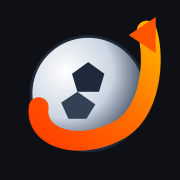
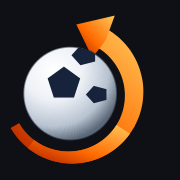
로고 마크를 다시 그림
기조는 그대로 두고 만듦새만 손봤다.

리본을 stroke 가 아니라 채운 띠로 바꿨다. 그래야 굵기가 변한다 — 화면
밖으로 나가는 꼬리는 얇고 어깨에서 두껍다. 균일한 두께는 그려진 스우시가
아니라 압출된 관처럼 보인다.

그리고 리본을 두 번 그린다. 한 번은 공 뒤에, 한 번은 왼쪽 아래를 가로지르는
구간만 공 앞에. 이 겹침 하나가 공을 "감고 있다" 와 "주위를 돌고 있다" 를
가른다.

공에는 정반사 하이라이트, 명암 경계 그늘, 테두리 선을 넣었다. 패널은
구에 클리핑하고 빛에서 멀어질수록 작아진다 — 평면 오각형을 흩뿌린 것과
구면을 따르는 것은 확대하면 바로 드러난다.

화살촉은 뒤로 젖힌 미늘과 노치를 줘서 깃발이 아니라 촉으로 읽히게 했다.

호는 손으로 적지 않고 64등분 샘플링해 생성했다. 어느 크기에서도 테이퍼가
매끄럽다. 패스 전체가 3.3KB.

탭·홈화면 아이콘도 같은 마크로 다시 만들었다. 16px 에서는 하이라이트와
바깥 패널이 잡음이 되므로 살아남는 요소만 남긴다.

diff --git a/components/Logo.tsx b/components/Logo.tsx
@@ -1,13 +1,17 @@
 /**
- * The mark, as supplied — SVG for the ball and ribbon, live text for the
- * wordmark.
+ * The mark.
  *
- * Two changes from the source it came from. Every measurement is in `em` off a
- * single container font-size, so the header can run it at a third of its
- * natural size without a transform and without the layout box lying about how
- * much room it takes. And the two display faces load through next/font instead
- * of an `@import` from fonts.googleapis.com, which was a render-blocking
- * request to a third party for eight glyphs.
+ * The ribbon is a filled band rather than a stroked arc so it can taper — thin
+ * where it leaves frame, thick at the shoulder — which is what makes a swoosh
+ * look drawn instead of extruded. It is painted twice: once behind the ball and
+ * once, for the stretch that crosses the lower left, in front. That single
+ * overlap is what makes it read as wrapping rather than orbiting.
+ *
+ * The ball gets a specular highlight, a terminator shade and a rim line. Panels
+ * are clipped to the sphere and shrink as they turn away from the light.
+ *
+ * Geometry generated rather than hand-typed; the arc points are sampled at 64
+ * steps so the taper stays smooth at any size.
  */
 
 export function LogoMark({
@@ -26,73 +30,96 @@ export function LogoMark({
       className={className}
     >
       <defs>
-        <linearGradient id="itkOrange" x1="0%" y1="100%" x2="100%" y2="0%">
-          <stop offset="0%" stopColor="#FF3E00" />
-          <stop offset="50%" stopColor="#FF6B00" />
-          <stop offset="100%" stopColor="#FFAE00" />
-        </linearGradient>
-
-        {/* Declared here rather than mid-document: a forward reference works in
-            browsers but not in every SVG rasteriser. */}
-        <radialGradient id="itkBall" cx="30%" cy="30%" r="70%">
-          <stop offset="0%" stopColor="#FFFFFF" />
-          <stop offset="60%" stopColor="#CBD5E1" />
-          <stop offset="100%" stopColor="#475569" />
+        <radialGradient id="itkSphere" cx="32%" cy="26%" r="76%">
+          <stop offset="0" stopColor="#FFFFFF" />
+          <stop offset="0.42" stopColor="#EDF1F6" />
+          <stop offset="0.78" stopColor="#B7C2D0" />
+          <stop offset="1" stopColor="#5B6878" />
         </radialGradient>
-
-        <filter id="itkShadow" x="-20%" y="-20%" width="140%" height="140%">
-          <feDropShadow
-            dx="2"
-            dy="4"
-            stdDeviation="3"
-            floodColor="#000"
-            floodOpacity="0.4"
-          />
-        </filter>
+        <radialGradient id="itkSpec" cx="50%" cy="50%" r="50%">
+          <stop offset="0" stopColor="#FFFFFF" stopOpacity="0.95" />
+          <stop offset="1" stopColor="#FFFFFF" stopOpacity="0" />
+        </radialGradient>
+        <radialGradient id="itkTerm" cx="34%" cy="28%" r="78%">
+          <stop offset="0.6" stopColor="#0B1220" stopOpacity="0" />
+          <stop offset="1" stopColor="#0B1220" stopOpacity="0.5" />
+        </radialGradient>
+        <linearGradient id="itkRib" x1="6%" y1="96%" x2="96%" y2="4%">
+          <stop offset="0" stopColor="#B32400" />
+          <stop offset="0.42" stopColor="#FF6B00" />
+          <stop offset="1" stopColor="#FFC155" />
+        </linearGradient>
+        <radialGradient id="itkHalo" cx="50%" cy="50%" r="50%">
+          <stop offset="0.48" stopColor="#FF6B00" stopOpacity="0.34" />
+          <stop offset="1" stopColor="#FF6B00" stopOpacity="0" />
+        </radialGradient>
+        <clipPath id="itkBallClip">
+          <circle cx="78" cy="104" r="52" />
+        </clipPath>
       </defs>
 
-      <circle cx="90" cy="110" r="65" fill="#1E2838" filter="url(#itkShadow)" />
-      <circle cx="90" cy="110" r="62" fill="url(#itkBall)" />
-
-      <polygon points="90,75 72,88 78,108 102,108 108,88" fill="#1E293B" />
-      <polygon points="90,75 72,88 55,78 62,60 80,60" fill="#334155" />
-      <polygon points="108,88 102,108 120,118 130,100 122,82" fill="#334155" />
-      <polygon points="78,108 60,120 68,138 88,138 98,122" fill="#334155" />
+      <circle cx="78" cy="104" r="78" fill="url(#itkHalo)" />
 
       <path
-        d="M 35 125 C 30 160, 80 175, 125 150 C 160 130, 165 70, 155 40"
-        fill="none"
-        stroke="url(#itkOrange)"
-        strokeWidth="22"
-        strokeLinecap="round"
-        filter="url(#itkShadow)"
+        d="M 11.7 142.2 14.1 146.0 16.6 149.6 19.3 153.1 22.2 156.5 25.3 159.6 28.6 162.6 32.0 165.4 35.6 168.0 39.4 170.4 43.2 172.6 47.2 174.6 51.3 176.3 55.5 177.8 59.8 179.1 64.2 180.1 68.6 180.9 73.0 181.4 77.5 181.7 82.0 181.7 86.5 181.4 91.0 180.9 95.4 180.2 99.8 179.2 104.2 177.9 108.4 176.4 112.6 174.6 116.7 172.6 120.7 170.4 124.6 167.9 128.3 165.2 131.8 162.3 135.2 159.2 138.4 155.9 141.4 152.4 144.2 148.8 146.8 144.9 149.2 141.0 151.3 136.8 153.2 132.6 154.9 128.2 156.3 123.8 157.4 119.3 158.3 114.7 158.9 110.0 159.2 105.3 159.3 100.6 159.1 95.9 158.6 91.2 157.8 86.6 156.7 82.0 155.4 77.4 153.8 73.0 152.0 68.6 149.9 64.4 147.5 60.2 145.0 56.2 142.1 52.4 139.1 48.8 135.8 45.3 132.4 42.0 128.7 39.0 124.9 36.1 120.9 33.5 116.7 31.2 L 105.9 51.5 108.9 53.2 111.8 55.0 114.6 57.0 117.3 59.2 119.8 61.5 122.2 64.0 124.5 66.6 126.6 69.3 128.6 72.1 130.4 75.1 132.1 78.1 133.6 81.3 134.9 84.5 136.0 87.8 136.9 91.1 137.7 94.5 138.2 98.0 138.6 101.5 138.8 105.0 138.7 108.5 138.5 112.0 138.0 115.5 137.4 119.0 136.6 122.5 135.5 125.9 134.3 129.2 132.9 132.5 131.2 135.7 129.4 138.8 127.4 141.8 125.3 144.7 123.0 147.4 120.5 150.0 117.8 152.5 115.0 154.9 112.1 157.0 109.1 159.0 105.9 160.9 102.6 162.5 99.2 164.0 95.8 165.2 92.2 166.3 88.6 167.1 85.0 167.7 81.3 168.1 77.6 168.3 73.9 168.3 70.1 168.1 66.4 167.6 62.7 166.9 59.1 166.0 55.5 164.9 52.0 163.6 48.6 162.1 45.2 160.3 42.0 158.4 38.9 156.3 35.9 154.0 33.0 151.5 30.3 148.8 27.8 146.0 25.4 143.1 23.3 140.0 21.3 136.8 Z"
+        fill="url(#itkRib)"
       />
       <path
-        d="M 135 45 L 165 25 L 165 65 Z"
-        fill="#FF5500"
-        filter="url(#itkShadow)"
+        d="M 84.8 27.2 L 127.5 17.3 L 117.5 44.6 L 102.6 64.0 Z"
+        fill="url(#itkRib)"
+      />
+
+      <circle cx="78" cy="104" r="52" fill="url(#itkSphere)" />
+      <g clipPath="url(#itkBallClip)" fill="#16233A">
+        <path d="M 71.0 74.0 L 89.1 87.1 L 82.2 108.4 L 59.8 108.4 L 52.9 87.1 Z" />
+        <path d="M 105.7 68.3 L 89.4 72.5 L 79.4 61.4 L 89.4 50.4 L 105.7 54.6 Z" />
+        <path d="M 104.2 114.7 L 95.4 105.1 L 104.2 95.4 L 118.3 99.1 L 118.3 111.0 Z" />
+        <path d="M 57.7 132.0 L 66.9 121.9 L 81.7 125.8 L 81.7 138.2 L 66.9 142.1 Z" />
+        <path d="M 29.4 94.0 L 45.6 98.2 L 45.6 111.9 L 29.4 116.1 L 19.4 105.0 Z" />
+        <path d="M 59.8 54.6 L 59.8 68.3 L 43.6 72.5 L 33.6 61.4 L 43.6 50.4 Z" />
+      </g>
+      <ellipse
+        cx="59"
+        cy="82"
+        rx="25"
+        ry="17"
+        fill="url(#itkSpec)"
+        transform="rotate(-24 59 82)"
+      />
+      <circle cx="78" cy="104" r="52" fill="url(#itkTerm)" />
+      <circle
+        cx="78"
+        cy="104"
+        r="52"
+        fill="none"
+        stroke="#0B1220"
+        strokeOpacity="0.5"
+        strokeWidth="2"
+      />
+
+      <path
+        d="M 30.8 164.4 32.3 165.6 33.9 166.8 35.5 167.9 37.2 169.0 38.8 170.1 40.5 171.1 42.2 172.1 44.0 173.0 45.7 173.9 47.5 174.7 49.3 175.5 51.2 176.2 53.0 176.9 54.9 177.6 56.8 178.2 58.7 178.8 60.6 179.3 62.5 179.7 64.4 180.1 66.4 180.5 68.4 180.8 70.3 181.1 72.3 181.3 74.3 181.5 76.3 181.6 78.3 181.7 80.2 181.7 82.2 181.7 84.2 181.6 86.2 181.4 88.2 181.3 90.2 181.0 92.2 180.7 94.2 180.4 96.1 180.0 98.1 179.6 100.0 179.1 102.0 178.6 103.9 178.0 105.8 177.4 107.7 176.7 109.6 175.9 111.4 175.2 113.3 174.3 115.1 173.5 116.9 172.5 118.7 171.6 120.4 170.6 122.1 169.5 123.8 168.4 125.5 167.3 127.2 166.1 128.8 164.8 130.4 163.6 131.9 162.2 133.4 160.9 134.9 159.5 136.4 158.1 137.8 156.6 139.1 155.1 140.5 153.5 141.8 152.0 143.0 150.3 144.3 148.7 L 129.5 138.7 128.6 140.1 127.7 141.4 126.8 142.7 125.8 144.0 124.8 145.2 123.8 146.4 122.8 147.6 121.7 148.8 120.5 150.0 119.4 151.1 118.2 152.2 117.0 153.3 115.8 154.3 114.5 155.3 113.2 156.3 111.9 157.2 110.5 158.1 109.2 159.0 107.8 159.8 106.4 160.6 104.9 161.4 103.5 162.1 102.0 162.8 100.5 163.4 99.0 164.0 97.5 164.6 95.9 165.2 94.4 165.6 92.8 166.1 91.2 166.5 89.6 166.9 88.0 167.2 86.4 167.5 84.8 167.8 83.1 168.0 81.5 168.1 79.9 168.2 78.2 168.3 76.6 168.4 74.9 168.3 73.3 168.3 71.6 168.2 70.0 168.1 68.3 167.9 66.7 167.7 65.0 167.4 63.4 167.1 61.8 166.7 60.2 166.3 58.6 165.9 57.0 165.4 55.4 164.9 53.8 164.3 52.3 163.7 50.7 163.1 49.2 162.4 47.7 161.7 46.2 160.9 44.8 160.1 43.3 159.2 41.9 158.3 40.5 157.4 39.1 156.5 37.8 155.5 Z"
+        fill="url(#itkRib)"
       />
     </svg>
   );
 }
 
-/**
- * `size` is the cap size of "itk"; everything else is proportional to it.
- */
+/** `size` is the cap size of "itk"; the rest is proportional to it. */
 export function Logo({ size = 82 }: { size?: number }) {
   return (
     <span
       className="flex select-none items-center"
-      style={{ fontSize: size, gap: "0.183em" }}
+      style={{ fontSize: size, gap: "0.16em" }}
     >
-      <LogoMark size={size * 1.463} className="shrink-0" />
+      <LogoMark size={size * 1.42} className="shrink-0" />
 
       <span
         className="flex flex-col italic"
         style={{
           fontFamily: "var(--font-wordmark)",
           fontWeight: 900,
-          lineHeight: 0.85,
+          lineHeight: 0.84,
         }}
       >
         <span
@@ -103,20 +130,20 @@ export function Logo({ size = 82 }: { size?: number }) {
               "linear-gradient(180deg, #FFFFFF 0%, #E2E8F0 60%, #94A3B8 100%)",
             WebkitBackgroundClip: "text",
             WebkitTextFillColor: "transparent",
-            filter: "drop-shadow(0.024em 0.049em 0.061em rgba(0,0,0,0.5))",
+            filter: "drop-shadow(0.02em 0.04em 0.05em rgba(0,0,0,0.55))",
           }}
         >
           itk
         </span>
 
-        <span className="flex items-center" style={{ marginTop: "-0.122em" }}>
+        <span className="flex items-center" style={{ marginTop: "-0.12em" }}>
           <span
             style={{
               fontSize: "0.61em",
-              marginRight: "0.024em",
+              marginRight: "0.02em",
               color: "#FF5500",
-              WebkitTextStroke: "0.012em #CC4400",
-              filter: "drop-shadow(0.033em 0.049em 0.049em rgba(0,0,0,0.4))",
+              WebkitTextStroke: "0.012em #C44000",
+              filter: "drop-shadow(0.03em 0.04em 0.04em rgba(0,0,0,0.45))",
             }}
           >
             +
@@ -129,7 +156,7 @@ export function Logo({ size = 82 }: { size?: number }) {
                 "linear-gradient(180deg, #FF6B00 0%, #FF3E00 50%, #D93000 100%)",
               WebkitBackgroundClip: "text",
               WebkitTextFillColor: "transparent",
-              filter: "drop-shadow(0.024em 0.049em 0.049em rgba(0,0,0,0.4))",
+              filter: "drop-shadow(0.02em 0.04em 0.04em rgba(0,0,0,0.45))",
             }}
           >
             plus
